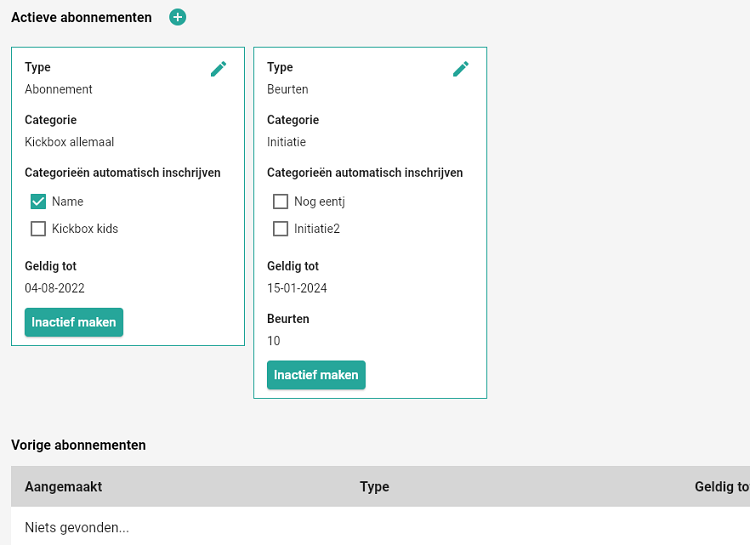
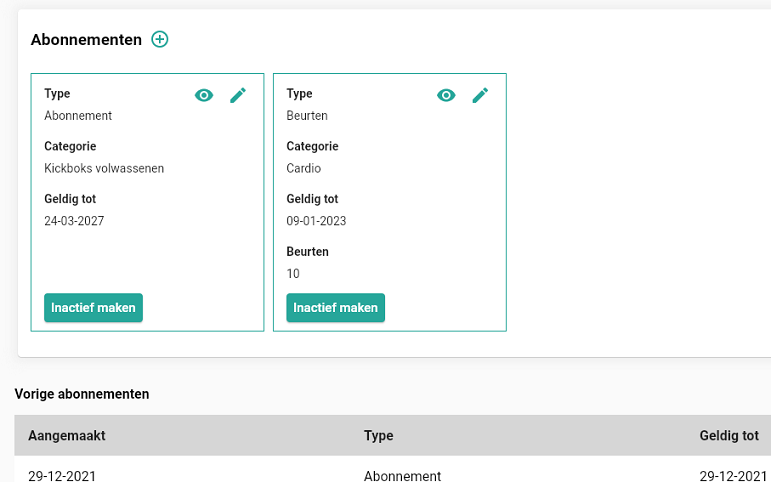
changes
changes

Changed region(s): [[0.0, 0.0, 0.6747, 0.7469], [0.0, 0.8091, 1.0, 1.0]]

diff --git a/docs/admin/member-management.md b/docs/admin/member-management.md
@@ -35,15 +35,11 @@ Het is mogelijk verschillende filters toe te passen:
 - Naam (er wordt gezocht in zowel voor- en achternaam)
 - Toon inactieve leden (deze verschijnen in het grijs tussen de actieve leden)
 - Type lid (gekoppelde leden gebruiken Squatix, niet-gekoppelde leden zijn niet gekoppeld met een echte gebruiker (zie [Toevoegen leden](#toevoegen)))
-- Rol (zie [Rollen](#rollen))
+- Rol (zie [Lid gegevens](#lid-gegevens))
 - Status abonnement (geldig of niet meer geldig)
 - Type abonnement (met beurten of enkel met een geldigheidsdatum)
 - Abonnementscategorie (zie [Abonnement](#abonnement))
-- Meetingscategorie (filter wordt enkel getoond indien een abonnementscategorie is geselecteerd, filter bevat de meetingscategorieën gelinkt aan dit abonnement, 
-zie [AbonnementsCategorieën](settings.md#abonnementscategorieën). Resultaat toont de leden die een abonnement hebben met de geselecteerde abonnementscategorie en 
-waarvoor de aangeduide meetingscategoriën aangevinkt staan als "automatisch inschrijven".)
 - Nieuwsbrief geabboneerd
-- Nieuwsbrief ingeschakeld
 
 ![member list](/assets/images/member_list.png)
 		
@@ -109,7 +105,7 @@ Bovenaan vind je een overzicht met de geselecteerde leden, met X kan je eventuee
 		
 In het onderste deel kan je gewenste actie selecteren:
 - Nieuw abonnement toevoegen: alle geselecteerde leden krijgen een nieuwe abonnement toegevoegd. Selecteer het gewenste abonnement en pas eventueel de standaardprijs nog aan. Klik op "Bewaar".
-Om abonnementen te definiëren zie (TODO)
+Om abonnementen te definiëren zie [Abonnementen](settings.md#abonnementen)
 
 ![mass subscriptions](/assets/images/mass_subscriptions2.png)
 
@@ -141,52 +137,85 @@ of je ze wilt aanvaarden of afwijzen.
 
 ![member requests](/assets/images/member_requests.png)	
 
-Door te klikken op een ledenverzoek wordt er meer informatie getoond over de gebruiker die het verzoek verstuurt heeft.
+Om een ledenverzoek af te wijzen klik je op het verwijder symbool. Indien je ervoor opteert het ledenverzoek af te wijzen wordt het onherroepelijk verwijderd. 
 
-![member requests](/assets/images/member_request.png)	
+Door te klikken op een ledenverzoek opent zich een nieuw scherm waarin je het ledenverzoek kan aanpassen en aanvaarden.
 
-1) Info gebruiker
+Volgende stappen worden doorlopen:
 
-Meer info over wie het verzoek verstuurd heeft (indien ingevuld door gebruiker):
+### Verzoek
+
+![member request](/assets/images/member_request_request.png)	
+
+**Verzoek**
+
+Meer details over de persoon die lid wil worden van de club:
+- Foto
 - E-mail
 - Telefoon
-- Geboortedatum 
+- Geboortedatum
 - Geslacht
-- Profielfoto
 
-2) Lid verzoek vragen
+**Antwoorden**
 
-Indien je lid verzoek vragen ingesteld hebt (zie [Lid verzoek vragen](settings.md#lid-verzoek-vragen)) kan je hier de antwoorden van de gebruiker lezen.
+De antwoorden op de eventuele vragen die je opgesteld had voor nieuwe leden (zie [Lid verzoek vragen](settings.md#lid-verzoek-vragen))
 
-3) Koppelen
+**Koppel**
 
-Het is mogelijk de gebruiker te koppelen aan een bestaand ledenprofiel. Op die manier kan je jouw leden initieel zelf aanmaken zonder dat ze gekoppeld zijn met een gebruiker (en zo hun gegevens 
-bijhouden). Zodra ze echter de applicatie beginnen te gebruiken kan je met deze functie de gebruiker koppelen met dit eerder aangemaakte profiel. Alle gegevens die je al ingegeven had blijven 
-bewaard na koppeling.  
+Indien je voor dit lid reeds eerder een profiel had aangemaakt kan je het bestaande profiel met het echte lid koppelen (zie [Toevoegen leden](#toevoegen)). Op deze manier wordt de door jou reeds
+ingegeven informatie bewaard.
 
-Opteer je ervoor om geen koppeling uit te voeren, dan wordt er een nieuw lid voor de gebruiker aangemaakt en worden de gegevens die de gebruiker in zijn eigen 
-gebruikersprofiel al ingegeven had (geboortedatum, geslacht, naam, voornaam, ...) gekopieerd naar dit leden profiel in jouw club.
+### Persoonlijk
 
-4) Afwijzen/aanvaarden
+![member request](/assets/images/member_request_personal.png)	
 
-Indien je ervoor opteert het ledenverzoek af te wijzen wordt het onherroepelijk verwijderd. 
- 
-Zodra je het verzoek geaccepteerd hebt wordt er een extra actief lid toegevoegd aan jouw club.
+In deze stap zie je alle informatie over de gebruiker in detail. Eventueel kan je deze nog aanpassen of aanvullen.
 
-**Opgelet:** Om een kindprofiel lid te laten worden van jouw club en toegang te geven tot alle functionaliteit is het voldoende dat enkel dit kindprofiel een ledenverzoek verstuurt. Het is dus **niet**
-nodig dat ook een gekoppeld ouderprofiel lid wordt van de club indien deze in realiteit eigenlijk geen lid is.
+- Persoonlijke info
+- Adres
+- Telefoon
+- E-mail
+
+Telefoon en e-mail zijn reeds ingevuld met de gegevens die de gebruiker heeft opgegeven. Deze zijn niet aanpasbaar en worden steeds automatisch gesynchroniseerd gehouden elke keer de gebruiker deze aanpast.
+Het is wel mogelijk extra telefoonnummers of e-mailadressen toe te voegen.
+
+### Lid
+
+![member request](/assets/images/member_request_member.png)	
+
+**Rollen**
+
+Verander de autorisaties van het lid in Squatix door hem een of meerdere rollen toe te kennen (zie [Rollen](#rollen))
+
+**Teams**
+
+Ken het nieuwe lid toe aan een of meerdere teams (zie [Teams](settings.md#teams)). Indien je de standaardvraag "Aan welk team moet je toegevoegd worden" actief gezet hebt 
+(zie [Lid verzoek vragen](settings.md#lid-verzoek-vragen)) zie je hier het antwoord van het nieuwe lid en is hij al automatisch toegevoegd aan het team van zijn keuze. Dit kan nog aangepast worden.
+
+Indien je in stap1 gekoppeld hebt met een bestaand profiel en deze was al aan teams toegekend blijven deze ook hier behouden.
+
+**Abonnementen**
+
+Hier kan je onmiddelijk een of meerdere abonnementen toekennen. Indien je de standaardvraag "Welk abonnement wens je" actief gezet hebt 
+(zie [Lid verzoek vragen](settings.md#lid-verzoek-vragen)) zie je hier het antwoord van het nieuwe lid en is het gekozen abonnement al automatisch toegevoegd. Dit kan nog aangepast worden.
+
+Indien je in stap1 gekoppeld hebt met een bestaand profiel en deze had al een abonnement blijven deze ook hier behouden.
+
+### aanvaarden
+
+Zodra je op aanvaarden klikt wordt het lid aan jouw club toegevoegd met de gekozen opties.
 		
 ## Detail
 Wijzigingen die doorgevoerd worden in de detailpagina van een lid hebben enkel betrekking op de details van het lid in de club zelf. Deze worden dus niet aangepast 
 of overschreven in het gebruikersprofiel van het lid. Beide profielen staan los van elkaar.
+
+![member details heading](/assets/images/member_detail_heading.png)
 
 In de bovenste sectie kan je het volgende terugvinden:
 - Foto: uploaden van een foto voor het lid, deze staat los van de eigen foto die het lid in zijn profiel heeft toegevoegd en zal deze dus niet overschrijven
 - Gekoppeld aan gebruikersprofiel: dit label wordt getoond indien een fysieke gebruiker aan dit lid gekoppeld is (na een ledenverzoek, zie [Ledenverzoeken](#ledenverzoeken))
 - Inactief maken: door een lid inactief te maken is hij niet meer aanpasbaar maar telt hij ook niet meer mee in het aantal leden (voor berekening van het clubabonnement).
 Zijn profiel kan wel nog bekeken worden door te zoeken op inactieve leden in het overzicht (zie ([Overzicht](#toevoegen))).
-
-![member details heading](/assets/images/member_detail_heading.png)
 
 Opgelet, volgende gevolgen zijn onomkeerbaar:
 	- Het lid wordt verwijderd uit alle toekomstige meetings waarvoor het ingeschreven is
@@ -205,29 +234,33 @@ In het onderste deel van het scherm wordt een overzicht van de vorige abonnement
 
 **Actieve abonnementen**  
 
-Het werken met abonnementen is optioneel. Een lid kan echter ook meerdere actieve abonnementen hebben. De beheerder kan dus zelf kiezen welke aanpak hij verkiest. Volgende beperkingen gelden:
-- Er kan maar één abonnement zijn van elke abonnementscategorie
-- Er kan maar één abonnement zijn zonder abonnementscategorie
-- Twee abonnementen kunnen geen overlappende gelinkte meetingscategorieën hebben.
+Het werken met abonnementen is optioneel. Een lid kan echter ook meerdere actieve abonnementen hebben. De beheerder kan dus zelf kiezen welke aanpak hij verkiest.
 
-Om een nieuw actief abonnement toe te voegen, klik op het +-teken. Het scherm om een nieuw abonnement aan te maken opent zich. Volgende velden kunnen ingevuld worden:
-- Type (verplicht, abonnement of beurten)
-- Categorie (optioneel, zie [Abonnementscategorieën](settings.md#abonnementscategorieën))
-- Categorieën automatisch inschrijven (optioneel, enkel indien de geselecteerde abonnementscategorie gelinkte meetingscategorieën heeft, 
-zie [Abonnementscategorieën](settings.md#abonnementscategorieën) en [Automatisch inschrijven](#automatisch-inschrijven))
-- Geldig tot (verplicht)
-- Beurten over (verplicht indien type "Beurten" geselecteerd is)
+Om een nieuw actief abonnement toe te voegen, klik op het +-teken. Het scherm om een nieuw abonnement te selecteren opent zich. 
 
-Om een actief abonnement aan te passen klik op het potloodje. Vorige aanpassingen aan het abonnement kunnen bekeken worden in het scherm dat opent. Om een nieuwe aanpassing 
-door te voeren, klik nogmaals op het potloodje.  
+![member details subscriptions](/assets/images/member_detail_subscriptions_new.png)
+
+Het drop-down menu bevat de vooraf gedefinieerde abonnementen (zie [Abonnementen](settings.md#abonnementen))
+
+Na het selecteren van een abonnement worden de details geladen. Het is nog mogelijk twee parameters aan te passen:
+
+- Prijs: vul een ander bedrag in dan vooraf gedefinieerd
+- Groepsabonnement: door het vakje "Groepsabonnement" aan te vinken kan je een of meerdere leden toevoegen aan dit abonnement. Zij zullen dan samen met het huidige lid gebruik kunnen maken van dit abonnement.
+Het abonnement zal ook verschijnen op de detailpagina van deze leden. Indien het een beurtenkaart betreft en een van de leden verbruikt een beurt zal deze er bij allen afgetrokken worden.
+
+![member details subscriptions](/assets/images/member_detail_subscriptions_new_detail.png)
+
+Om een actief abonnement aan te passen klik op het potloodje. Het aantal beurten kan gewijzigd worden de groepsabonnement-optie.
+
+Vorige aanpassingen aan het abonnement kunnen bekeken worden door op het oogje te klikken.
 
 Om een abonnement inactief te maken, klik op "inactief maken" op het bewuste abonnement. Het abonnement verdwijnt naar de sectie "Vorige abonnementen" en is niet meer 
 aanpasbaar. Dit kan niet ongedaan gemaakt worden.
 
 **Vorige abonnementen**
 
-Dit toont een overzicht van inactieve abonnementen. Indien er aanpassingen geweest zijn aan dit abonnement (geldig-tot datum, aantal beurten, ...) kunnen deze bekeken worden door op het pijltje aan de rechterkant te klikken (enkel getoond indien er aanpassingen waren).
-
+Dit toont een overzicht van inactieve abonnementen. Indien er aanpassingen geweest zijn aan dit abonnement (geldig-tot datum, aantal beurten, ...) kunnen deze bekeken worden door op het pijltje aan de rechterkant 
+te klikken (enkel getoond indien er aanpassingen waren).
 
 ### Lid gegevens
 
@@ -236,9 +269,13 @@ Dit toont een overzicht van inactieve abonnementen. Indien er aanpassingen gewee
 Volgende informatie kan je hier bekijken:
 
 - Lid sinds welke datum
-- Indien kindprofiel: wie zijn de gekoppelde ouders
+- Gekoppelde gebruiker
 
 ![member details extra info](/assets/images/member_detail_extrainfo.png)
+
+**Teams**
+
+Ken het lid toe aan een of meerdere teams (zie [Teams](settings.md#teams))
 
 **Rollen**
 
@@ -272,6 +309,9 @@ Volgende info is beschikbaar:
 - Telefoon (je kan meerdere telefoonnummers opslaan en ze voorzien van een label)
 
 ![member details subscriptions](/assets/images/member_detail_personal.png)
+
+Het e-mailadres en telefoonnummer dat het lid gebruikt in Squatix worden automatisch gesynchroniseerd en kunnen niet door de beheerder van de club aangepast worden. Dit geldt natuurlijk enkel voor
+gekoppelde leden.
 
 ### Meetings
 Hier kan je een overzicht krijgen van alle meetings waarop het lid ingeschreven is (verleden en toekomst). 

diff --git a/docs/admin/settings.md b/docs/admin/settings.md
@@ -1,10 +1,10 @@
 ---
 layout: admin
-title: Instellingen
+title: Configuratie
 nav_order: 7
 ---
 
-# Instellingen
+# Configuratie
 {: .no_toc }
 
 ## Inhoudsopgave
@@ -39,7 +39,30 @@ Volgende data kan ingegeven worden:
 ![Subscription category](/assets/images/subscription_categorie.png)
 			
 Aanpassen van een Abonnementscategorie: klik op het potloodje
-	
+
+## Abonnementen
+
+## Rollen
+Met rollen kan je jouw leden toegang geven tot bepaalde functionaliteiten of pagina's waar een lid zonder die rol geen toegang toe heeft. Op de rollen-pagina kan je de 
+verschillende rollen en hun permissies voor jouw club definiëren. Daarna kan je in de detail pagina van een lid hem een of meerdere van die rollen toekennen 
+(zie [Lid gegevens](member-management.md#lid-gegevens)).
+
+![roles](/assets/images/roles.png)	
+
+Volgende permissies kunnen aan een rol gegeven worden:
+- Club info wijzigen (Wijzig de club info, upload een logo)
+- Club chat (Ontvang en beantwoord chatberichten die leden naar de club sturen)
+- Leden lezen (Bekijk de ledenlijst)
+- Leden wijzigen (Bekijk en wijzig de leden)
+- Rollen beheren (Rollen bekijken, toevoegen en aanpassen)
+- Trainer (Kan geselecteerd worden als trainer)
+- Meetings wijzigen (Aanpassen en aanmaken van meetings)
+
+Een aantal standaard rollen zijn altijd aanwezig en kunnen niet verwijderd of aangepast worden:
+- Eigenaar (Alle permissies, uitgezonder trainer. Enkel toegekend aan de persoon die de club aangemaakt heeft, kan beheerders aanduiden of verwijderen.)
+- Beheerder (Alle permissies, uitgezonderd trainer, kan geen andere beheerders aanduiden of verwijderen)
+- Trainer (Kan als trainer toegevoegd worden aan een meeting)
+
 ## Trainer groepen
 Indien je wilt dat trainers bevestigen of ze aanwezig kunnen zijn op een training en een vervanger moeten kiezen indien nodig kan je trainer groepen gebruiken zodat ze enkel een vervanger
 uit dezelfde groep als zichzelf kunnen kiezen. Op deze manier kan je ervoor zorgen dat er altijd genoeg trainers van een bepaald niveau aanwezig zijn.
@@ -68,27 +91,6 @@ Volgende data kan ingegeven worden:
 Aanpassen van een Team: klik op het potloodje
 
 Aanmaken van een team kan ook door in de leden pagina eerst de leden te selecteren en daarna de actie "Team aanmaken" te selecteren (zie [Team aanmaken](member-management.md#team-aanmaken))
-
-## Rollen
-Met rollen kan je jouw leden toegang geven tot bepaalde functionaliteiten of pagina's waar een lid zonder die rol geen toegang toe heeft. Op de rollen-pagina kan je de 
-verschillende rollen en hun permissies voor jouw club definiëren. Daarna kan je in de detail pagina van een lid hem een of meerdere van die rollen toekennen 
-(zie [Lid gegevens](member-management.md#lid-gegevens)).
-
-![roles](/assets/images/roles.png)	
-
-Volgende permissies kunnen aan een rol gegeven worden:
-- Club info wijzigen (Wijzig de club info, upload een logo)
-- Club chat (Ontvang en beantwoord chatberichten die leden naar de club sturen)
-- Leden lezen (Bekijk de ledenlijst)
-- Leden wijzigen (Bekijk en wijzig de leden)
-- Rollen beheren (Rollen bekijken, toevoegen en aanpassen)
-- Trainer (Kan geselecteerd worden als trainer)
-- Meetings wijzigen (Aanpassen en aanmaken van meetings)
-
-Een aantal standaard rollen zijn altijd aanwezig en kunnen niet verwijderd of aangepast worden:
-- Eigenaar (Alle permissies, uitgezonder trainer. Enkel toegekend aan de persoon die de club aangemaakt heeft, kan beheerders aanduiden of verwijderen.)
-- Beheerder (Alle permissies, uitgezonderd trainer, kan geen andere beheerders aanduiden of verwijderen)
-- Trainer (Kan als trainer toegevoegd worden aan een meeting)
 	
 ## Lid verzoek vragen
 Wanneer leden een verzoek verzenden om lid te worden van jouw club kan je hen vragen een aantal vragen te beantwoorden. Zo kan je bijvoorbeeld vragen of ze ook een 
